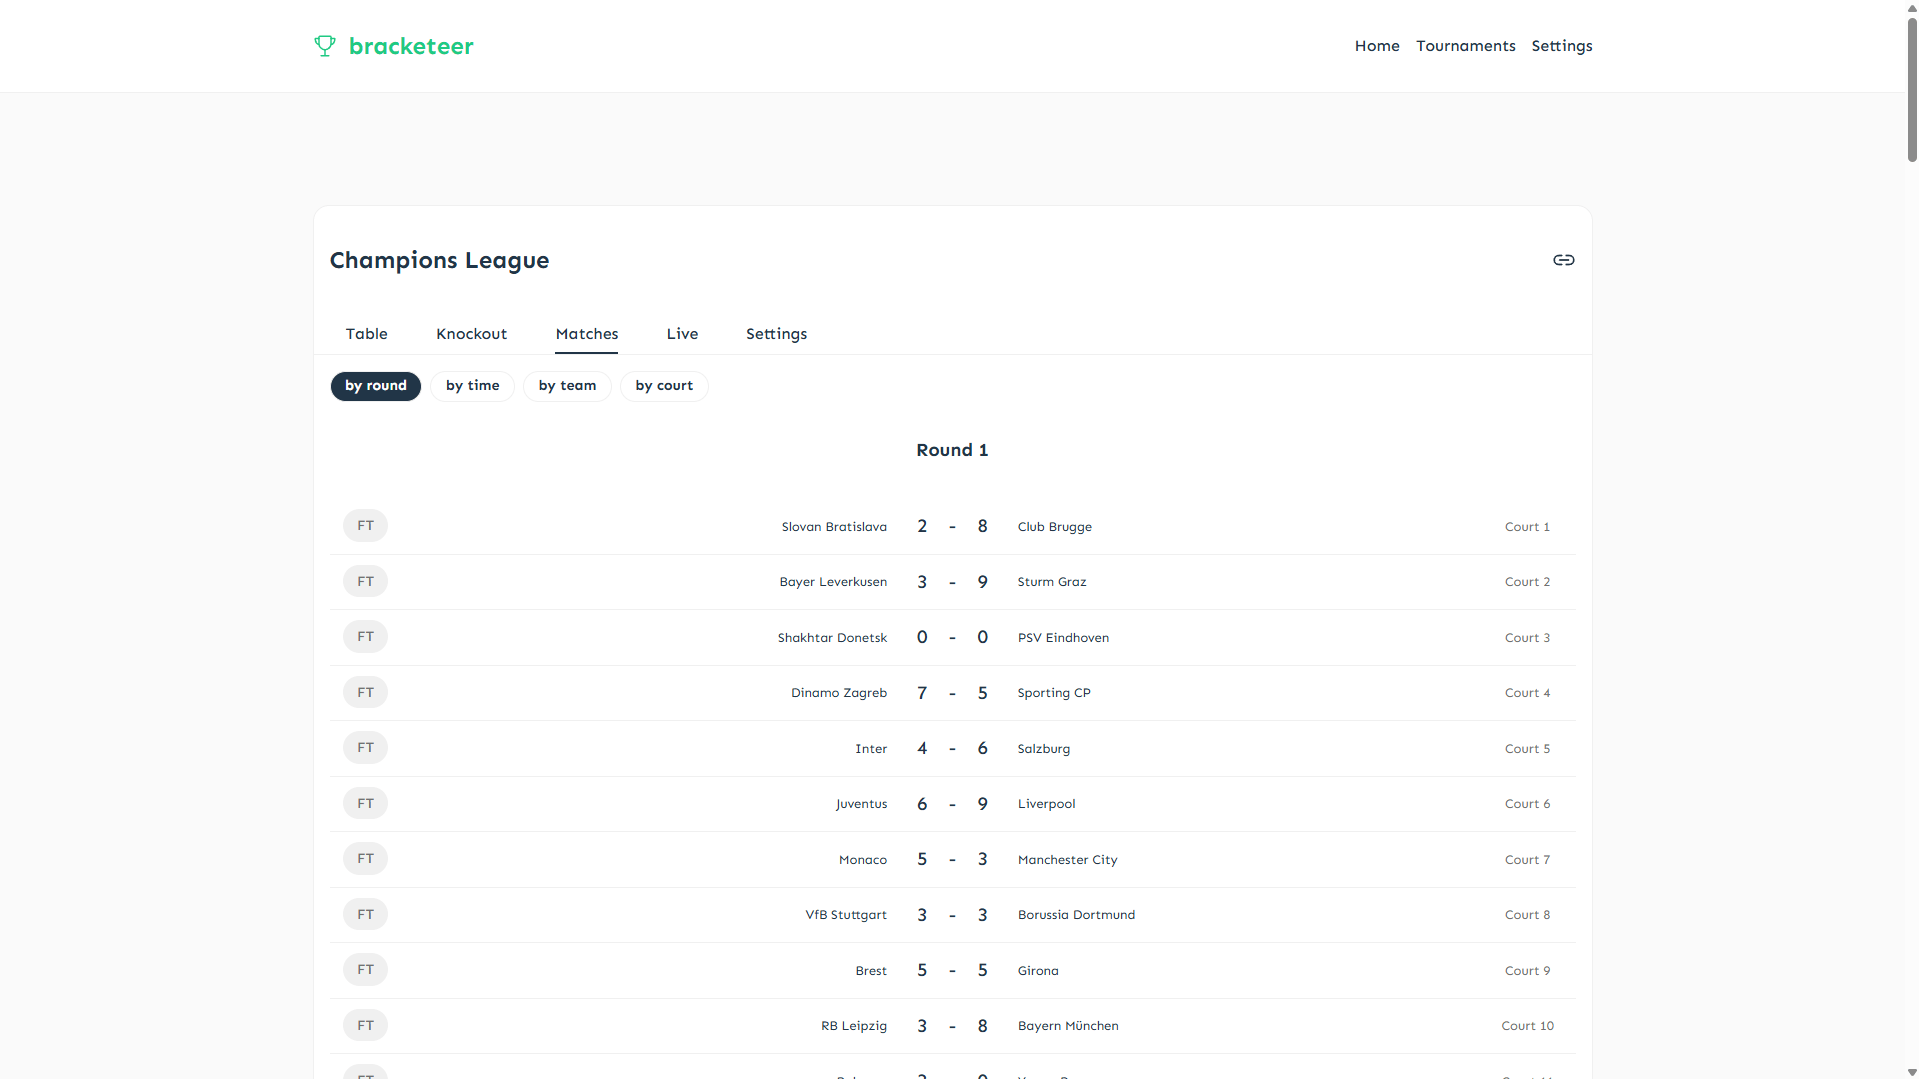
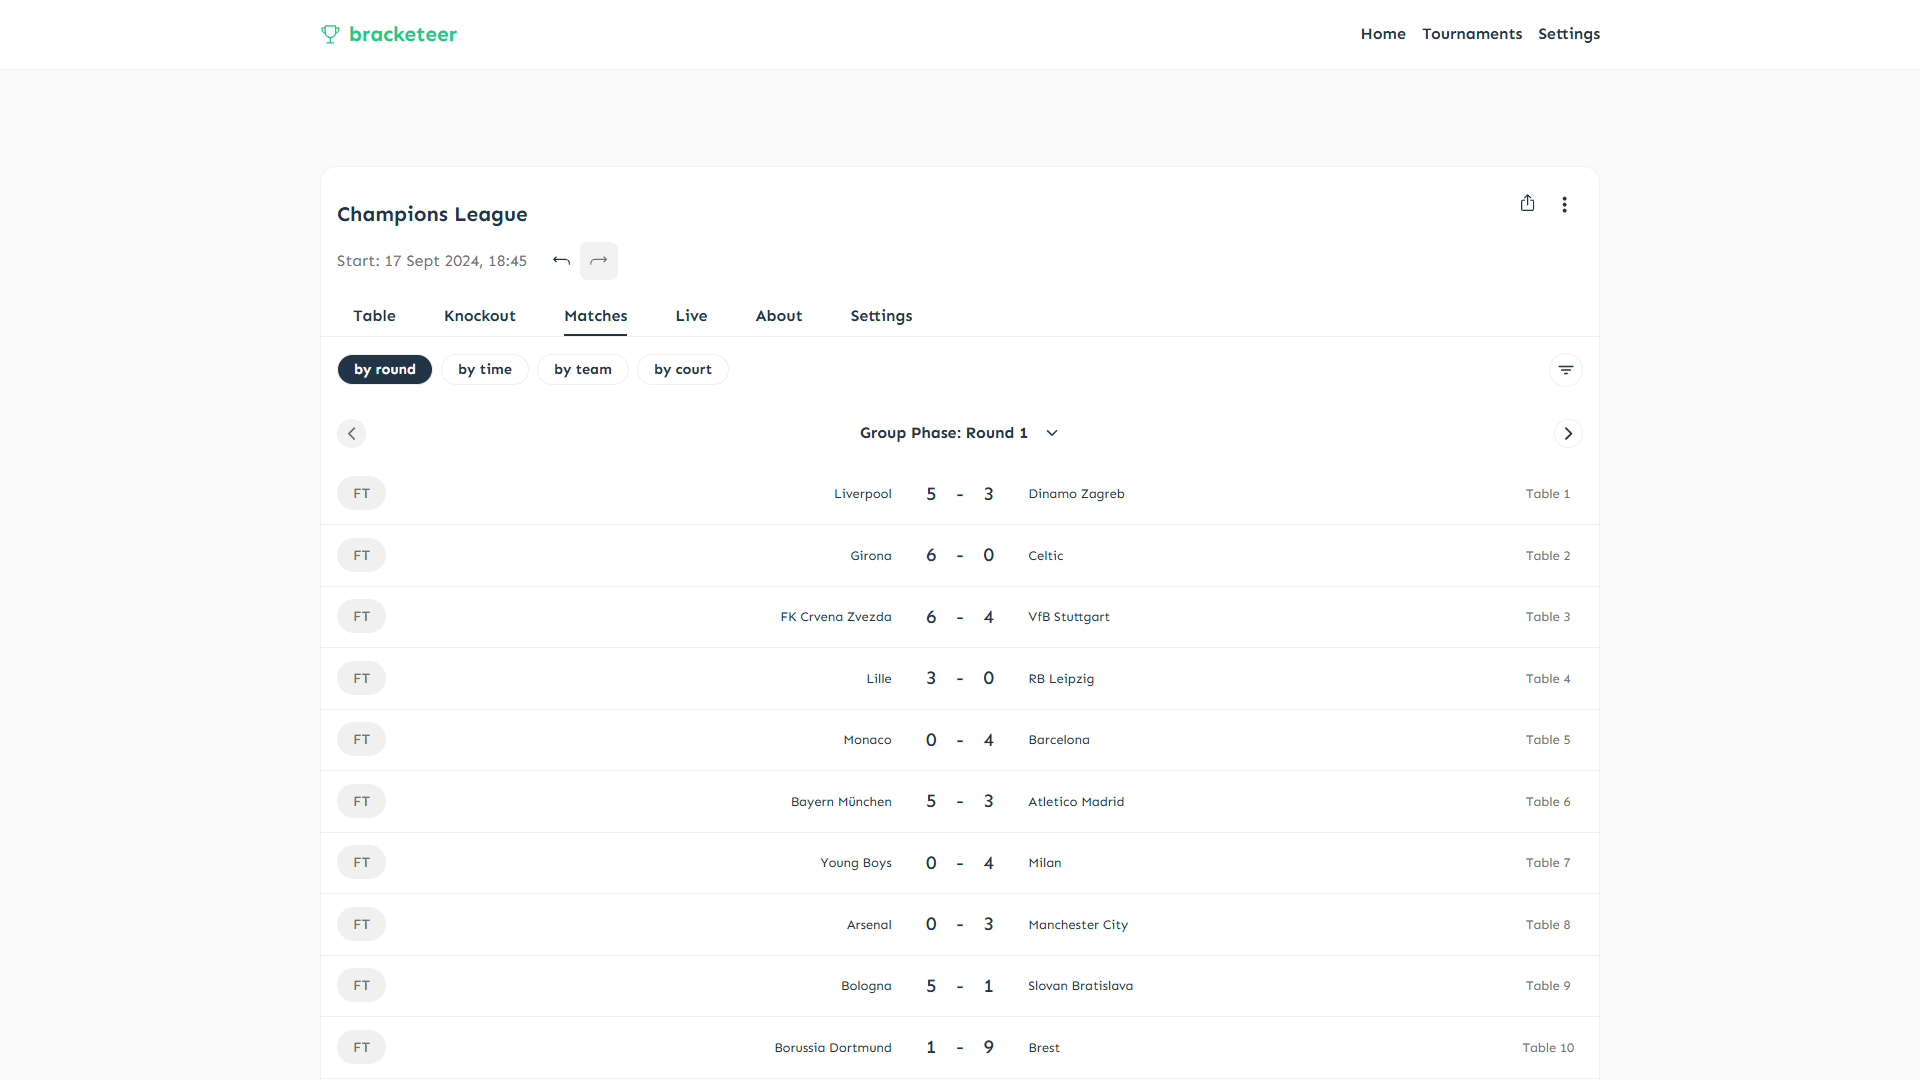
update readme

diff --git a/README.md b/README.md
@@ -2,7 +2,7 @@
 
 [![Quality Gate Status](https://sonarcloud.io/api/project_badges/measure?project=davidohnee_bracketeer&metric=alert_status)](https://sonarcloud.io/summary/new_code?id=davidohnee_bracketeer)
 
-bracketeer is a versatile and user-friendly tool designed to generate and manage tournaments for your social evenings. Whether you're organising beer pong, foosball, or other games, bracketeer ensures your tournaments are structured and fun.
+bracketeer is your sidekick for generating and managing tournaments for your social evenings. Whether you're organising a beer pong or foosball tournament, bracketeer ensures that it is well-structured and enjoyable.
 
 ![bracketeer Screenshot](docs/screenshot.png)
 
@@ -15,21 +15,21 @@ bracketeer is a versatile and user-friendly tool designed to generate and manage
 
 ### Sharing
 
-Tournaments by default are persisted locally in your browser. Please note that on WebKit-based browsers (Safari, iOS), the local storage may be [cleared after 7 days of inactivity](https://webkit.org/blog/10218/full-third-party-cookie-blocking-and-more/).
+Tournaments are stored locally in your browser. Please note that on WebKit-based browsers (e.g. Safari or iOS in general), [local storage is cleared after seven days of inactivity](https://webkit.org/blog/10218/full-third-party-cookie-blocking-and-more/), meaning your tournament will be lost if you don't access it within that time frame.
 
-You can also share your tournament (specifically the match plan and scores) with others, such as participants:
+You can also share your tournament with others, specifically the match plan and scores.
 
 ### GitHub Gists
 
-Through GitHub Gists, your tournament state can be shared with others. The host device does not need to be online for others to access the tournament, as the tournament state is stored in the Gist. However, Gists are cached for 5 minutes by clients, which means that changes made to the tournament may not be immediately visible to others. To share a tournament via Gist, you need to enter a GitHub personal access token.
+You can share your tournament state with others through GitHub Gists. The host device does not need to be online for others to access the tournament, since the tournament state is stored in the Gist. However, please note that Gists are cached by clients for 5 minutes, meaning that changes made to the tournament may not be immediately visible to others. In order to share a tournament via a Gist, you will need to enter a GitHub personal access token.
 
 ### Peer-to-Peer
 
-Peer-to-peer sharing (powered by [PeerJS](https://peerjs.com/)) allows you to share your tournament state with others in real-time. This means that changes made to the tournament are immediately visible to all participants. This requires that the host device is online and connected to the internet. No login is required. P2P sharing is offered in three modes:
+Peer-to-peer sharing (powered by [PeerJS](https://peerjs.com/)) allows you to share your tournament state with others in real time. This means that changes made to the tournament are immediately visible to all participants. The host device must be online and connected to the internet for this to work. No login is required. P2P sharing is offered in three modes:
 
-- **Permanent**: The link is valid whenever the host device is online. (That way you can safely share the link beforehand)
-- **Session**: The link changes whenever the host device is re-opens the browser.
-- **Random**: The link changes whenever the host device reloads or re-opens the browser.
+- **Permanent**: The link is valid whenever the host device is online. This means you can safely share the link in advance.
+- **Session**: The link changes whenever the host device reopens the browser.
+- **Random**: The link changes whenever the host device reloads or reopens the browser.
 
 ### Using Gists and P2P sharing together
 
@@ -47,13 +47,11 @@ You can also self-host bracketeer using a reverse proxy such as Caddy or Nginx. 
 
 ## Contributing
 
-Contributions are welcome! Please follow these steps:
+Contributions are always welcome. If you are planning to use AI, please bear the following guidelines in mind:
 
-1. Fork the repository.
-2. Create a new branch: `git checkout -b feature-name`.
-3. Commit your changes: `git commit -m 'Add feature'`.
-4. Push to the branch: `git push origin feature-name`.
-5. Open a pull request.
+- Vibe-coding is strongly discouraged.
+- AI-assisted coding is allowed, but manual human review is required for all contributions (see #43).
+- Tests can be generated with AI (as was done for the initial coverage, see 188c3af, df7e37f, 095cf67), but they must also be manually reviewed.
 
 ### Development
 
